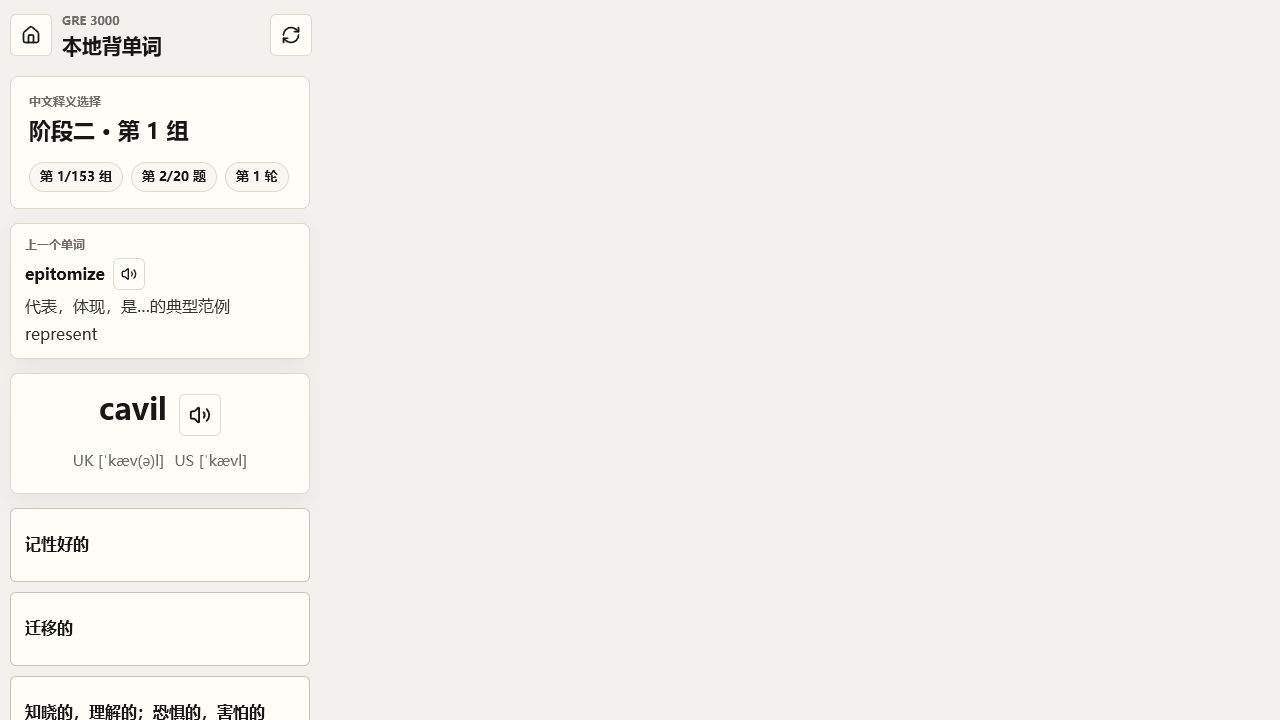
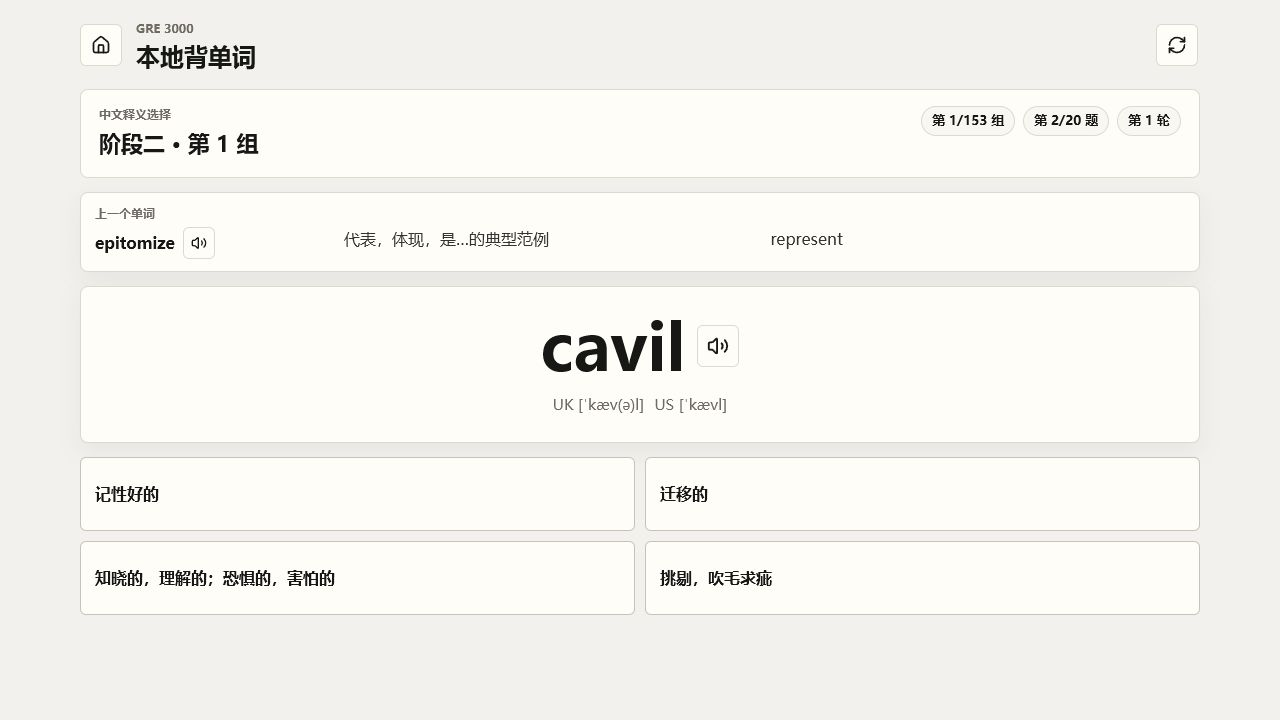
Update bilingual README and stage two screenshot

diff --git a/README.md b/README.md
@@ -1,158 +1,162 @@
 # 📚 GRE3000 Vocab App
 
-一个本地运行的 GRE 词汇背诵网页应用。它把 GRE 词表、发音、选择题复习、错题统计和词典搜索放在同一个网页里，适合在电脑或手机浏览器中进行日常背词。
+一个本地运行的 GRE 背单词网页应用，适合在电脑或手机浏览器中使用。它把单词学习、发音、选择题复习、错题统计和词典搜索放在同一个页面里。
 
-![主页截图](docs/screenshots/home.png)
+A local GRE vocabulary web app for desktop and mobile browsers. It combines word study, audio playback, multiple-choice review, error tracking, and dictionary search in one place.
 
-## ✨ 这个应用可以做什么
+![主页截图 / Home screenshot](docs/screenshots/home.png)
 
-- 按随机顺序背诵全部 3041 个 GRE 词汇。
-- 每 20 个词为一组，按组推进学习。
-- 阶段一用于熟悉单词、中文释义、英文释义和发音。
-- 阶段二用四选一选择题检查中文释义。
-- 阶段三复习已经通过阶段二的单词。
-- 答错会自动记录错误次数。
-- 可以按错误次数筛选单词，也可以按错误次数倒序复习。
-- 可以在主页直接搜索单词并查看释义和发音。
-- 所有学习进度保存在当前浏览器中，不需要账号。
+## 🚀 快速开始 / Quick Start
 
-## 🏠 主页怎么用
+如果你从源码运行应用：
 
-主页包含四个主要区域：
-
-- **总进度**：查看总词数、已通过阶段二的词数、已完成组数。
-- **阶段一 / 阶段二**：开始新一组学习，或重新背诵指定组。
-- **阶段三**：复习已经通过阶段二的词。
-- **词典 / 搜索**：搜索单词、中文释义或英文释义。
-
-![主页截图](docs/screenshots/home.png)
-
-常用操作：
-
-1. 点击 **继续下一组**，从还没完成的组开始学习。
-2. 在组选择框中选择某一组，再点击 **重背所选组**，可以重新背这一组。
-3. 在搜索框输入单词或释义，可以快速查词。
-4. 点击 **打开完整词典**，可以进入详细查询页面。
-
-## 🃏 阶段一怎么用
-
-阶段一是记忆阶段。页面左侧显示单词、音标和发音按钮，右侧直接显示中文释义。这样可以把单词词形和中文含义放在同一个视觉区域里，更容易形成记忆绑定。
-
-![阶段一截图](docs/screenshots/stage-one.png)
-
-操作步骤：
-
-1. 进入单词时，应用会自动播放一次发音。
-2. 看左侧单词和右侧中文释义。
-3. 需要重复听发音时，点击喇叭按钮。
-4. 点击 **下一个** 进入下一词。
-5. 背完当前组后，会自动进入阶段二。
-
-## ✅ 阶段二怎么用
-
-阶段二是中文释义选择题。页面会显示当前单词和 4 个中文释义选项，其中只有 1 个是正确答案。
-
-![阶段二截图](docs/screenshots/stage-two.png)
-
-操作步骤：
-
-1. 进入每个新词时，应用会自动播放一次发音。
-2. 根据单词选择正确的中文释义。
-3. 选对后会自动进入下一个词。
-4. 选错后会显示正确中文释义和英文释义，并把这个词的错误次数加 1。
-5. 当前组结束后，会自动重测本组错词。
-6. 直到本组全部正确，才会进入下一组阶段一。
-
-顶部的 **上一个单词** 区域可以回看上一词的中英文释义，也可以点击小喇叭重新播放上一词发音。
-
-## 🔁 阶段三怎么用
-
-阶段三用于复习已经通过阶段二的词。
-
-入口在主页的 **阶段三** 区域：
-
-- **背诵全部已通过词**：复习所有已经通过阶段二的单词。
-- **按错误数倒序**：优先复习错得最多的词。
-- **错误数等于某个数值**：只复习错误次数等于指定数字的词。
-
-阶段三的做题方式和阶段二一致：
-
-1. 看单词并听发音。
-2. 从 4 个中文释义中选择正确答案。
-3. 答错会增加错误次数。
-4. 一组复习完后会继续进入阶段三下一组。
-
-## 🔍 词典搜索怎么用
-
-主页可以直接搜索单词、中文释义或英文释义。点击搜索结果或 **打开完整词典** 后，会进入详细词典页面。
-
-![词典截图](docs/screenshots/dictionary.png)
-
-词典详情页会显示：
-
-- 单词
-- 发音按钮
-- UK / US 音标
-- 中文释义
-- 英文释义
-- 所在组
-- 全局序号
-- 当前错误次数
-
-## 💾 学习进度保存在哪里
-
-学习进度保存在当前浏览器的 `localStorage` 中。
-
-这意味着：
-
-- 关闭网页后再打开，进度还在。
-- 换浏览器或换设备，进度不会自动同步。
-- 清除浏览器数据后，进度会丢失。
-- 这个应用不需要账号，也不会上传你的学习数据。
-
-## 🖥️ 本地运行方式
-
-如果你是从源码运行这个应用，先安装依赖：
+If you run the app from source:
 
 ```bash
 npm install
-```
-
-启动本地网页：
-
-```bash
 npm run dev
 ```
 
-默认访问地址：
+然后打开：
+
+Then open:
 
 ```text
 http://127.0.0.1:5173/
 ```
 
-## 🛠️ 重新生成词表和音频数据
+## 🏠 主页 / Home
 
-如果源 Excel 或音频文件有更新，可以重新生成静态数据：
+主页可以查看总进度、开始阶段一/阶段二、进入阶段三复习，也可以直接搜索单词。
 
-```bash
-npm run generate:data
-```
+The home page shows your overall progress, starts Stage 1/Stage 2, opens Stage 3 review, and lets you search words directly.
 
-默认源文件位置：
+常用入口：
 
-```text
-D:\桌面\LGU\GRE\3000-dev\3000.xlsx
-D:\桌面\LGU\GRE\3000-dev\3000_wav
-```
+Main actions:
 
-生成后的文件：
+- **继续下一组 / Continue next group**: 从还没完成的组开始学习。
+- **重背所选组 / Restart selected group**: 重新学习指定组。
+- **阶段三 / Stage 3**: 复习已经通过阶段二的单词。
+- **词典 / 搜索 / Dictionary / Search**: 搜索单词、中文释义或英文释义。
 
-- `src/data/vocab.ts`
-- `public/audio/*.wav`
+![主页截图 / Home screenshot](docs/screenshots/home.png)
 
-## ⚠️ 注意事项
+## 🧠 阶段一 / Stage 1
 
-- 本应用是本地网页版本，不包含账号、云同步或后端服务。
-- 进度只保存在当前浏览器中。
-- 如果浏览器阻止自动播放声音，请先手动点击一次页面上的发音按钮。
+阶段一用于建立第一印象。页面左侧显示单词、音标和发音按钮，右侧直接显示中文释义，下面显示英文释义。
+
+Stage 1 builds the first memory impression. The word, phonetics, and audio button are on the left; the Chinese meaning is shown directly on the right; the English definition appears below.
+
+这样设计是为了把“单词形状 + 发音 + 中文含义”固定在同一个视觉区域里。建议按这个顺序看：先看单词，听一遍发音，再看右侧中文释义，最后用英文释义确认含义。
+
+This layout is meant to bind the word shape, pronunciation, and Chinese meaning in one visual area. A useful routine is: look at the word, listen once, read the Chinese meaning on the right, then confirm with the English definition.
+
+![阶段一截图 / Stage 1 screenshot](docs/screenshots/stage-one.png)
+
+操作：
+
+Steps:
+
+1. 进入新单词时，应用会自动播放一次发音。
+2. 点击发音按钮可以重复播放。
+3. 点击 **下一个 / Next** 进入下一词。
+4. 背完一组后，会自动进入阶段二。
+
+## ✅ 阶段二 / Stage 2
+
+阶段二是中文释义选择题。页面会显示当前单词和 4 个中文释义选项，其中只有 1 个正确答案。
+
+Stage 2 is a Chinese-meaning multiple-choice quiz. The page shows one word and four Chinese meaning options. Only one option is correct.
+
+![阶段二截图 / Stage 2 screenshot](docs/screenshots/stage-two.png)
+
+操作：
+
+Steps:
+
+1. 每进入一个新单词，应用会自动播放一次发音。
+2. 根据单词选择正确的中文释义。
+3. 选对后自动进入下一个词。
+4. 选错后会显示正确中文释义和英文释义，并把该词错误次数加 1。
+5. 本组结束后，会自动重测本组错词。
+6. 直到本组全部正确，才会进入下一组阶段一。
+
+顶部的 **上一个单词 / Previous word** 区域可以回看上一个词的中英文释义，也可以点击小喇叭重新播放上一个词的发音。
+
+The **Previous word** area at the top lets you review the previous word's Chinese and English meanings. You can also click the small audio button to replay its pronunciation.
+
+## 🔁 阶段三 / Stage 3
+
+阶段三用于复习已经通过阶段二的单词。题型和阶段二一样，但只使用已通过的词。
+
+Stage 3 reviews words that have already passed Stage 2. It uses the same quiz format as Stage 2, but only includes passed words.
+
+可选复习方式：
+
+Review modes:
+
+- **背诵全部已通过词 / Review all passed words**
+- **按错误数倒序 / Sort by error count**
+- **错误数等于某个数值 / Review words with a specific error count**
+
+阶段三仍然按 20 个词一组推进。答错会继续增加错误次数，背完一组后直接进入阶段三下一组。
+
+Stage 3 still uses groups of 20 words. Wrong answers increase the error count, and finishing one group moves directly to the next Stage 3 group.
+
+## 🔎 词典与搜索 / Dictionary & Search
+
+主页可以直接搜索单词、中文释义或英文释义。点击搜索结果，或点击 **打开完整词典 / Open full dictionary**，可以进入详细词典页面。
+
+You can search by word, Chinese meaning, or English definition on the home page. Click a result, or click **Open full dictionary**, to open the dictionary detail page.
+
+![词典截图 / Dictionary screenshot](docs/screenshots/dictionary.png)
+
+词典页面会显示：
+
+The dictionary page shows:
+
+- 单词 / Word
+- 发音按钮 / Audio button
+- UK / US 音标 / UK and US phonetics
+- 中文释义 / Chinese meaning
+- 英文释义 / English definition
+- 所在组 / Group
+- 全局序号 / Global index
+- 当前错误次数 / Current error count
+
+## 💾 进度保存 / Progress Saving
+
+学习进度保存在当前浏览器的 `localStorage` 中。
+
+Your progress is saved in the current browser's `localStorage`.
+
+- 关闭网页后再打开，进度仍然保留。
+- 换浏览器或换设备，进度不会自动同步。
+- 清除浏览器数据后，进度会丢失。
+- 应用不需要账号，也不会上传你的学习数据。
+
+- Progress remains after closing and reopening the page.
+- Progress does not sync across browsers or devices.
+- Clearing browser data will remove progress.
+- No account is required, and your study data is not uploaded.
+
+## 🔊 发音与自动播放 / Audio Playback
+
+阶段一、阶段二和阶段三进入新单词时，都会尝试自动播放一次发音。
+
+Stage 1, Stage 2, and Stage 3 try to auto-play pronunciation when a new word appears.
+
+如果浏览器阻止自动播放，请先手动点击一次页面里的发音按钮。之后同一次浏览器会话通常就能继续播放。
+
+If the browser blocks auto-play, click an audio button manually once. After that, audio usually works during the same browser session.
+
+## ⚠️ 注意事项 / Notes
+
+- 这是本地网页应用，不包含账号、云同步或后端服务。
+- 手机和电脑都可以使用，但学习进度只保存在当前浏览器。
 - 如果公开分享项目，请确认词表和音频素材有公开分享权限。
+
+- This is a local web app with no account system, cloud sync, or backend service.
+- It works on desktop and mobile, but progress is stored only in the current browser.
+- If you share the project publicly, make sure the word list and audio files are allowed to be shared.